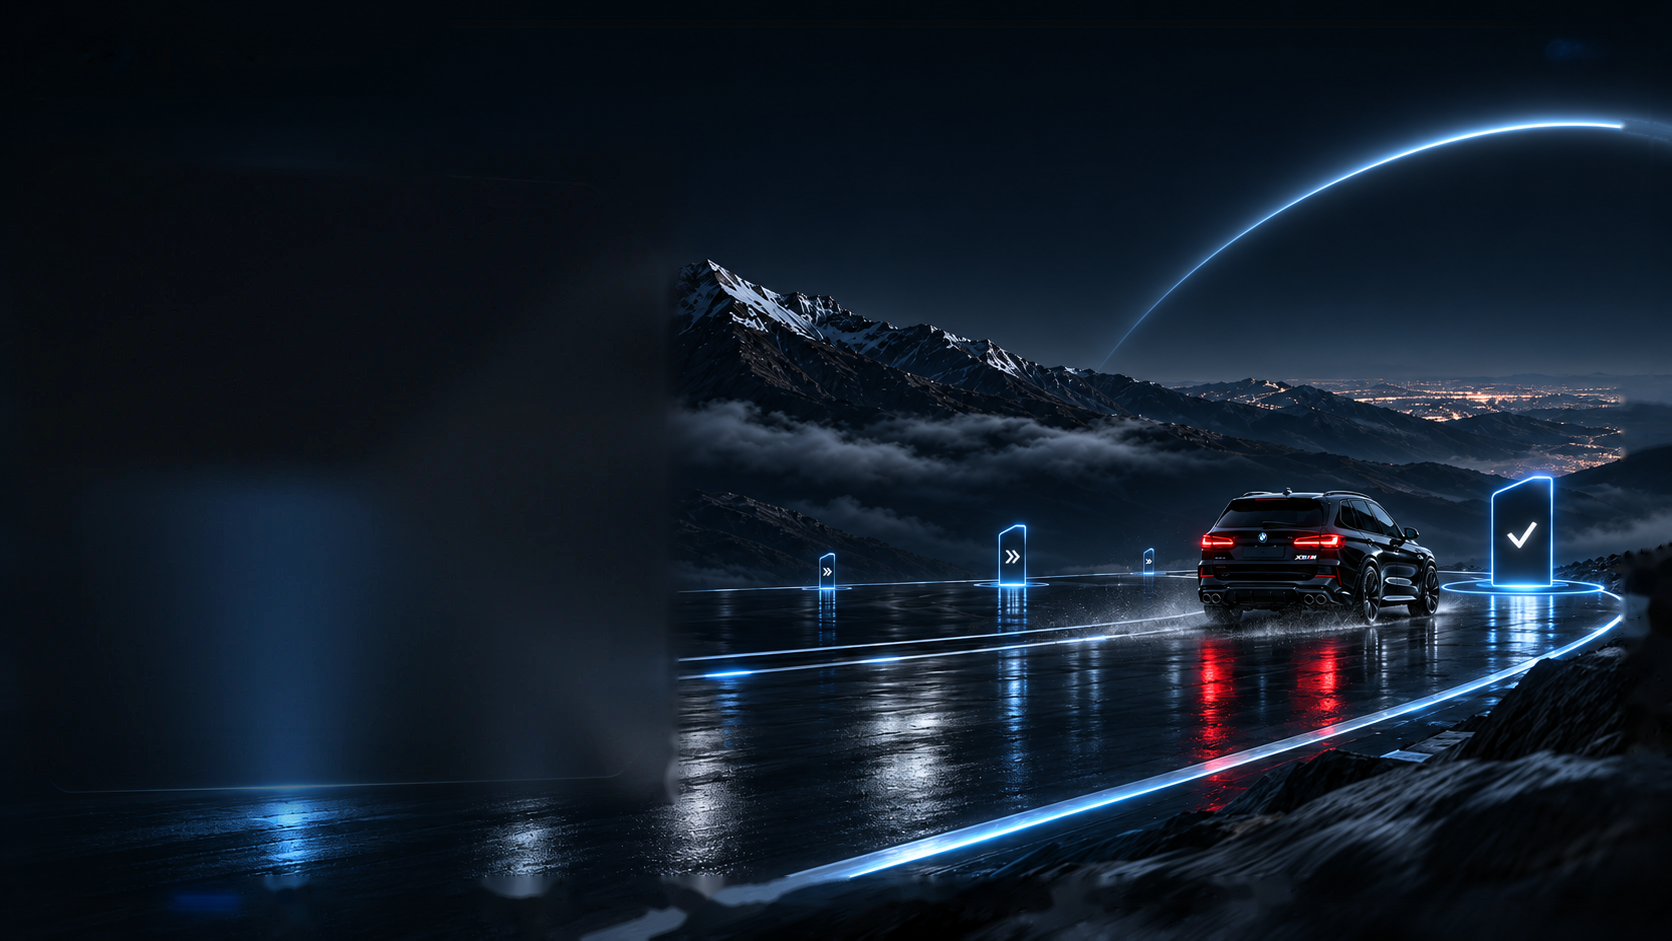
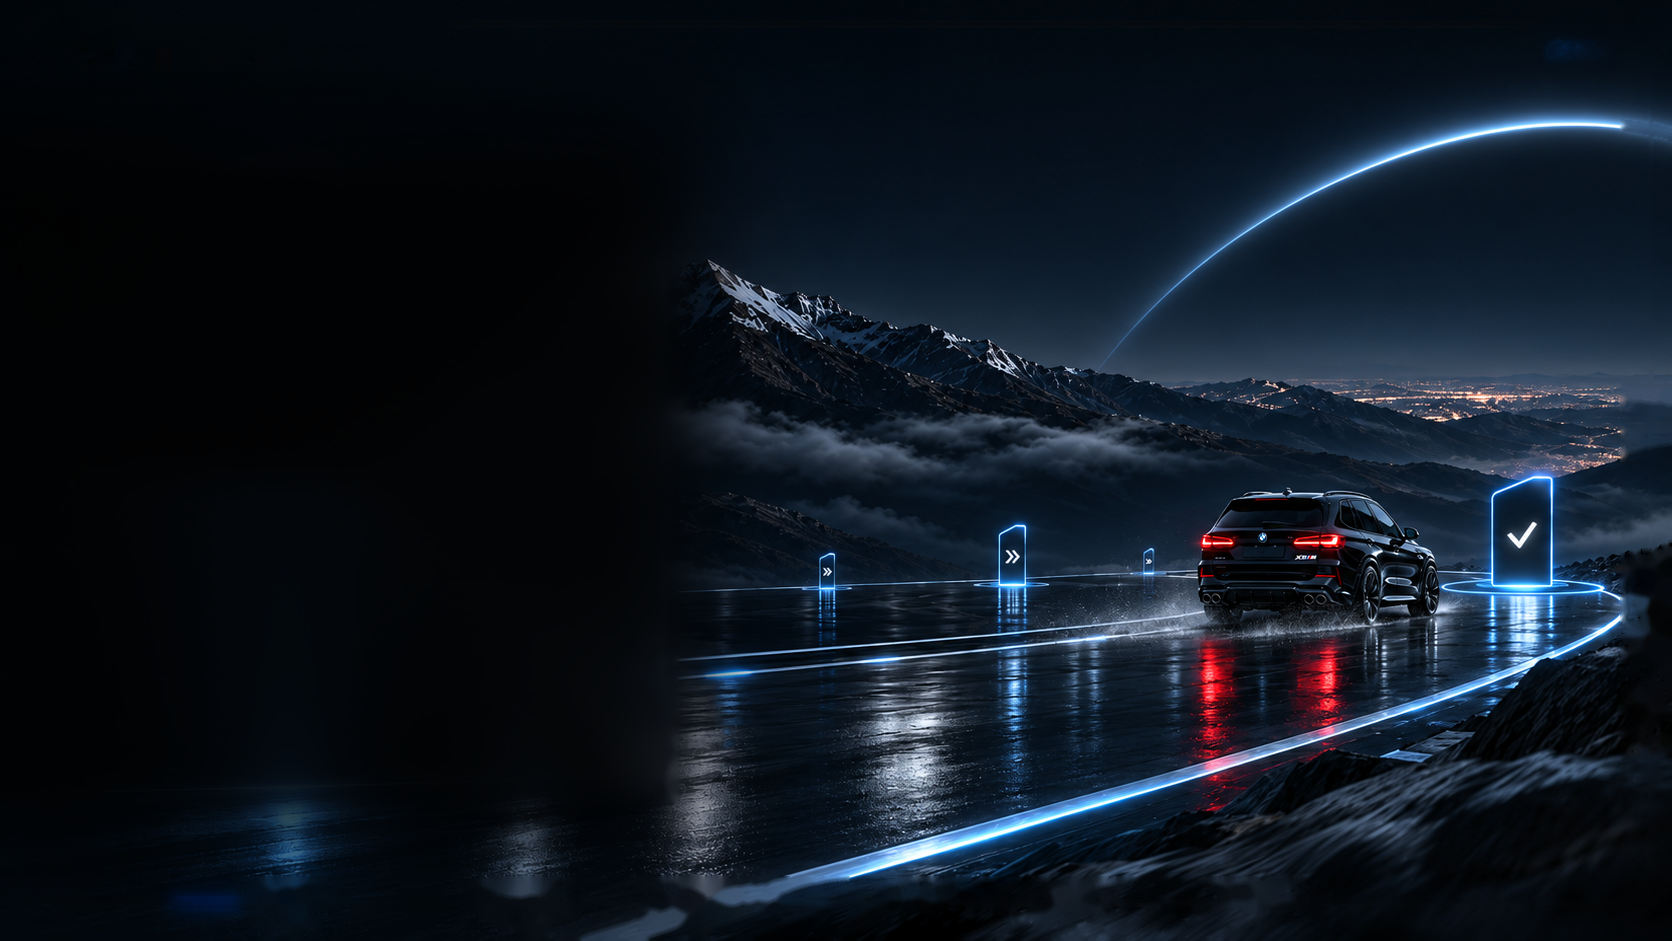
Без пятен и двойной машины; мобильная версия
- места бывших плашек на кадрах затемнены и сглажены — под панелями ровная тень
- переход между точками через короткое затемнение у ворот: два кадра не видны одновременно
- телефон: компактные панели, машина видна над карточкой на каждом экране, работы сеткой 3×2

Claude-Session: https://claude.ai/code/session_01QUwKFZMJ5beEo2BFhyqevG

Changed region(s): [[0.0622, 0.3698, 0.4665, 0.9554], [0.3421, 0.2774, 0.4665, 0.339]]

diff --git a/app.js b/app.js
@@ -139,7 +139,7 @@
       const fx = Number(mobile ? plate.dataset.mfx : plate.dataset.fx) || 0.5;
       const left = Math.min(0, Math.max(cw - w, cw / 2 - fx * w));
       const top = mobile
-        ? Math.min(0, ch * 0.3 - (Number(plate.dataset.my) || 0.6) * h)
+        ? Math.min(0, ch * 0.27 - (Number(plate.dataset.my) || 0.6) * h)
         : Math.min(0, Math.max(ch - h, ch / 2 - 0.5 * h));
       Object.assign(plate.style, { width: `${w}px`, height: `${h}px`, left: `${left}px`, top: `${top}px` });
       plate.style.setProperty('--gx', `${Number(plate.dataset.gx) * 100}%`);
@@ -275,7 +275,7 @@
 
     const fast = reducedMotion.matches || !window.gsap;
     const mobile = isMobile();
-    const total = fast ? 0.35 : (options.fromIntro ? 1.2 : (mobile ? 1.5 : 1.9));
+    const total = fast ? 0.35 : (options.fromIntro ? 1.2 : (mobile ? 1.3 : 1.6));
     setProgress(target, total);
 
     const finish = () => {
@@ -329,32 +329,24 @@
     tl.to(outPanel, { autoAlpha: 0, x: -shift.x * 0.6, y: mobile ? 16 : -shift.y * 0.4, duration: 0.32, ease: 'power2.in' }, 0);
     gsap.set(outPlate, { transformOrigin: originOut });
 
-    if (options.fromIntro) {
-      gsap.set(inPlate, { autoAlpha: 0, scale: 1, transformOrigin: originIn });
-      gsap.set(inPlate, { zIndex: 2 });
-      tl.to(inPlate, { autoAlpha: 1, duration: 1.1, ease: 'sine.inOut' }, 0)
-        .set(outPlate, { autoAlpha: 0 }, 1.15);
-    } else {
-      // Плавное «движение камеры»: оба кадра едут в одну сторону и долго перетекают друг в друга
-      const grow = dir > 0;
-      gsap.set(outPlate, { zIndex: 1 });
-      gsap.set(inPlate, { zIndex: 2, autoAlpha: 0, scale: grow ? 0.95 : 1.06, transformOrigin: originIn });
-      tl.to(outPlate, { scale: grow ? 1.08 : 0.96, duration: total, ease: 'sine.inOut' }, 0)
-        .to(inPlate, { autoAlpha: 1, duration: total * 0.7, ease: 'sine.inOut' }, total * 0.15)
-        .to(inPlate, { scale: 1, duration: total, ease: 'sine.out' }, 0)
-        .set(outPlate, { autoAlpha: 0 }, total);
-      if (grow) {
-        tl.to(bloom, { opacity: 0.14, duration: total * 0.45, ease: 'sine.in' }, total * 0.1)
-          .to(bloom, { opacity: 0, duration: total * 0.45, ease: 'sine.out' }, total * 0.55);
-      }
-    }
+    // Кадры не накладываются друг на друга: старый уезжает в свечение ворот, новый проявляется из него
+    const grow = dir > 0 || options.fromIntro;
+    const half = total * 0.5;
+    gsap.set(outPlate, { zIndex: 1 });
+    gsap.set(inPlate, { zIndex: 2, autoAlpha: 0, scale: grow ? 1.06 : 0.96, transformOrigin: originIn });
+    tl.to(outPlate, { scale: grow ? 1.1 : 0.94, duration: half, ease: 'sine.in' }, 0)
+      .to(outPlate, { autoAlpha: 0, duration: half * 0.9, ease: 'sine.in' }, half * 0.1)
+      .to(bloom, { opacity: grow ? 0.22 : 0.1, duration: half, ease: 'sine.in' }, 0)
+      .to(bloom, { opacity: 0, duration: half, ease: 'sine.out' }, half)
+      .to(inPlate, { autoAlpha: 1, duration: half, ease: 'sine.out' }, half)
+      .to(inPlate, { scale: 1, duration: half * 1.2, ease: 'power2.out' }, half);
 
     if (dir > 0 && target > 0 && !options.fromIntro) {
       tl.fromTo(tag, { autoAlpha: 0, y: 10 }, { autoAlpha: 1, y: 0, duration: total * 0.3, ease: 'power2.out' }, 0.05)
         .to(tag, { autoAlpha: 0, y: -12, duration: total * 0.25, ease: 'power2.in' }, total * 0.5);
     }
 
-    const panelAt = options.fromIntro ? 0.5 : total * 0.55;
+    const panelAt = total * 0.55;
     tl.call(() => setPanelState(target, true), null, panelAt)
       .fromTo(inPanel, { autoAlpha: 0, x: shift.x, y: shift.y }, { autoAlpha: 1, x: 0, y: 0, duration: 0.5, ease: 'power3.out' }, panelAt)
       .fromTo(children, { autoAlpha: 0, y: 10 }, { autoAlpha: 1, y: 0, duration: 0.42, stagger: 0.045, ease: 'power2.out', clearProps: 'transform,opacity,visibility' }, panelAt + 0.06);

diff --git a/styles.css b/styles.css
@@ -438,6 +438,51 @@ h1, h2, h3, h4, p { margin: 0; }
 }
 
 
+
+/* ---------- Телефоны: плотные панели, чтобы сверху оставалась сцена с машиной ---------- */
+@media (max-width: 760px) {
+  .vignette { background: linear-gradient(180deg, rgba(4, 5, 8, .78), rgba(4, 5, 8, .35) 14%, transparent 26%); }
+  .panel, .panel--hero, .panel--about, .panel--works, .panel--price, .panel--contacts { padding: 16px 14px 16px; }
+  .panel h1 { font-size: 23px; line-height: 1.12; }
+  .panel h2 { font-size: 24px; }
+  .title-xl { font-size: 30px !important; }
+  .panel__dash { margin-bottom: 8px; width: 34px; }
+  .eyebrow { font-size: 10px; }
+  .panel__kicker { margin-top: 6px; font-size: 10px; letter-spacing: .18em; }
+  .panel__lead { font-size: 13px; line-height: 1.45; }
+  .route-list__title { margin-top: 12px; }
+  .route-list button { min-height: 42px; }
+
+  .about { grid-template-columns: 56px 1fr; gap: 12px; margin-top: 10px; }
+  .about__photo { width: 56px; height: 56px; border-radius: 10px; }
+  .about__copy { gap: 6px; font-size: 12.5px; line-height: 1.42; }
+  .about__lead { font-size: 13.5px; line-height: 1.38; }
+  .chips { margin-top: 12px; gap: 5px; }
+  .chip { min-height: 32px; padding: 0 10px; font-size: 11.5px; border-radius: 10px; }
+  .chips__note { min-height: 0; margin-top: 8px; font-size: 12px; line-height: 1.4; }
+
+  .panel--works h2 { margin-top: 4px; }
+  .works { grid-template-columns: repeat(3, minmax(0, 1fr)); gap: 6px; margin-top: 10px; }
+  .work-card { aspect-ratio: 1 / 1; border-radius: 10px; }
+  .work-card img { object-position: 0 0; }
+  .work-card__meta { left: 7px; right: 7px; bottom: 6px; }
+  .work-card__meta strong { font-size: 10px; letter-spacing: 0; }
+  .work-card__meta small, .work-card__arrow { display: none; }
+  .button--ghost { min-height: 44px; margin-top: 10px; }
+
+  .price-tabs { margin-top: 10px; }
+  .price-tab { min-height: 36px; padding: 0 12px; font-size: 12px; }
+  .price-list { gap: 6px; margin-top: 10px; }
+  .price-row { min-height: 46px; }
+  .price-note { margin: 10px 0; font-size: 12px; }
+  .panel--price .button, .button--wide { min-height: 48px; }
+
+  .contacts__cta { font-size: 17px; }
+  .contacts { margin: 10px 0 12px; gap: 6px; }
+  .contact { min-height: 54px; padding: 6px 12px 6px 6px; }
+  .contact__icon { width: 40px; height: 40px; }
+}
+
 @media (max-height: 520px) and (min-width: 761px) {
   .panels { inset: 76px 0 74px; }
   .hud { padding-bottom: 16px; }

diff --git a/index.html b/index.html
@@ -28,7 +28,7 @@
 
     <div class="app" id="app" data-stage="0">
       <div class="scene" id="scene" aria-hidden="true">
-        <div class="plate plate--video" data-plate="0" data-ar="1.75" data-fx="0.5" data-mfx="0.3" data-my="0.61" data-gx="0.686" data-gy="0.62">
+        <div class="plate plate--video" data-plate="0" data-ar="1.75" data-fx="0.5" data-mfx="0.2" data-my="0.61" data-gx="0.686" data-gy="0.62">
           <video id="intro-video" muted playsinline preload="metadata" poster="assets/drive/intro-poster.webp" disablepictureinpicture></video>
           <img class="plate__fallback" src="assets/drive/start.webp" alt="" />
         </div>
